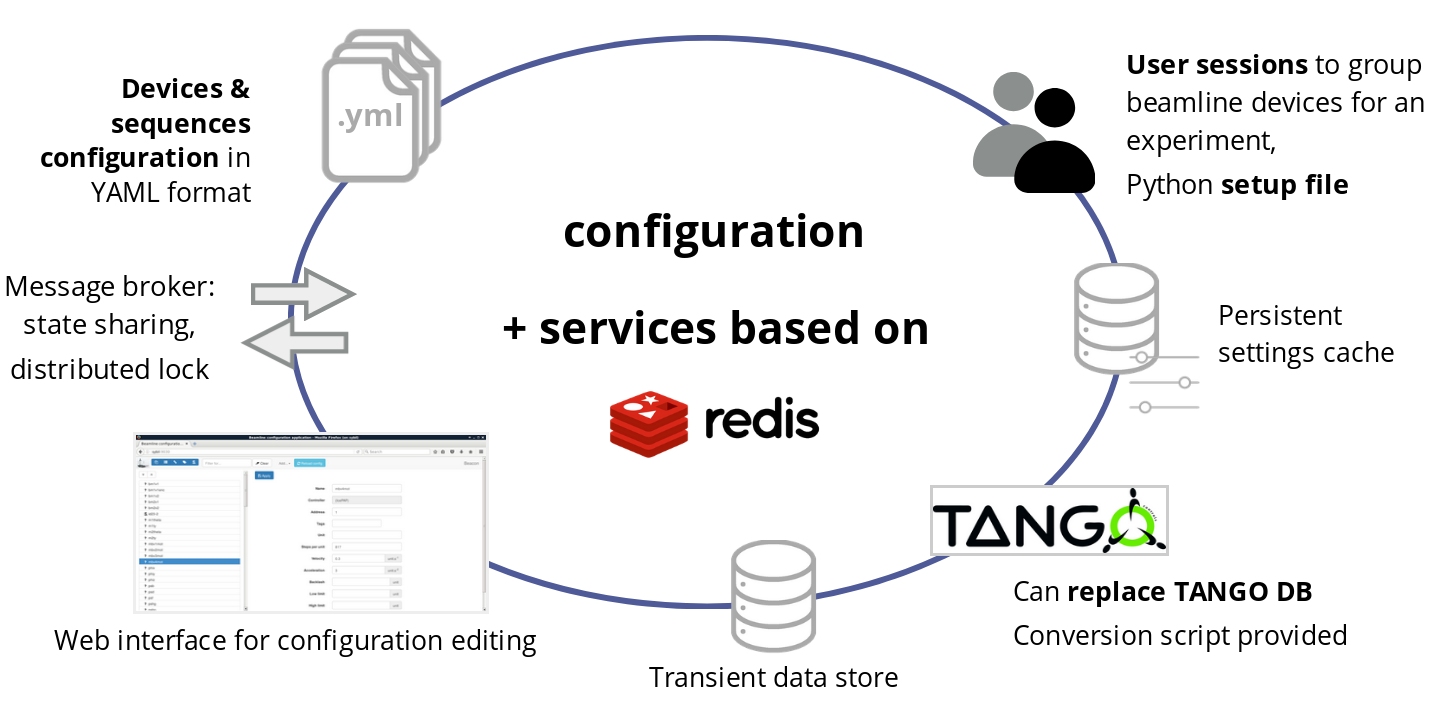
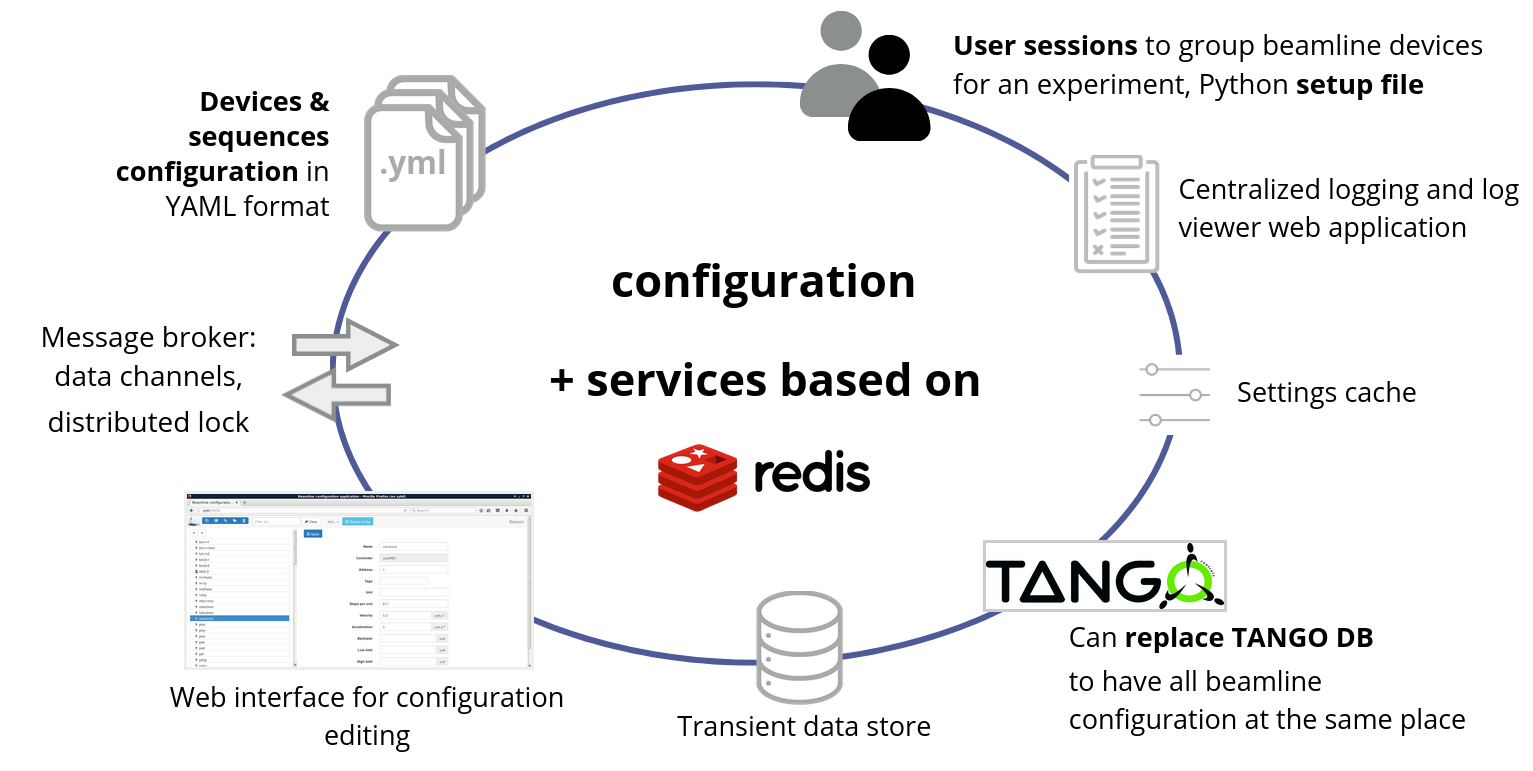
logserver/logviewer: documentation

diff --git a/doc/docs/beacon_install.md b/doc/docs/beacon_install.md
@@ -17,6 +17,8 @@ daemons started by the system:
 * The configuration files directory is set to `/users/blissadm/local/beamline_configuration`
 * The configuration web application is available at `http://localhost:9030`
 * The Beacon TANGO database service is disabled
+* The LogServer service is disabled by default
+* The LogViewer application is normally available at `http://localhost:9080` (disable by default)
 
 !!! note
     At ESRF there is at least one Beacon server per beamline.
@@ -37,7 +39,7 @@ The Beacon port number can be set manually (otherwise, by default, Beacon will j
     But it is safer to specify where to connect manually, using the `BEACON_HOST`
     environment variable to point to `<machine>:<port>` (example: `bibhelm:25000`).
 
-The web configuration UI can be enabled, by specifying the web application port number using `--webapp-port`:
+The web configuration UI can be enabled, by specifying the web application port number using **--webapp-port**:
 
     beacon-server --db-path=~/local/beamline_configuration --port=25000 --webapp-port=9030
 
@@ -47,16 +49,33 @@ you want the TANGO database server to serve:
 
     beacon-server --db-path=~/local/beamline_configuration --port=25000 --webapp-port=9030 --tango-port=20000
 
-## Command line options
+## Log Server and Log Viewer ##
 
-    * `--db-path` to specify the root path of the configuration files.
-    * `--port` to set a tcp port on beacon server default is dynamic.
-    * `--redis-port` to set a port for redis, default is 6379.
-    * `--redis_socket` uds redis connection, default is */tmp/redis.sock*
-    * `--tango-port` if defined start the tango database ds on a defined port.
-    * `--tango-debug-level` default is 0 WARNING == 1, INFO == 2, DEBUG == 2
-    * `--webapp-port` if defined start the web application on the specified port
-    * `--log-level` change the logging level of all Beacon services
-      default INFO can be switch between DEBUG, INFO, WARN, ERROR
-    * `--add-filter` add an address filter for the discovery protocol.
+A Log Server service is given with the purpose of receiving log messages from multiple clients and writing them to rotating files.
+
+Beacon will create one log file per session and will rotate on a given size (default 10MB).
+
+Also a Log Viewer Web Application is provided for reading log files.
+
+Log Server and Viewer are not started as a default and you need to provide some command line options to use them, you can't start the Viewer if the Log Server is not started (as it does not make sense); following the minimum configuration.
+
+    beacon-server --db-path=~/local/beamline_configuration --port=25000 --webapp-port=9030 --tango-port=20000 --log-server-port=9020 --log-viewer-port=9080
+
+Additional options can be set to change the output log folder (that normally is on `/var/log/bliss`) and the size of files (default 10MB).
+
+## Command line options  ##
+
+  - `--db-path` to specify the root path of the configuration files.
+  - `--port` to set a tcp port on beacon server default is dynamic.
+  - `--redis-port` to set a port for redis, default is 6379.
+  - `--redis_socket` uds redis connection, default is */tmp/redis.sock*
+  - `--tango-port` if defined start the tango database ds on a defined port.
+  - `--tango-debug-level` default is 0 WARNING == 1, INFO == 2, DEBUG == 2
+  - `--webapp-port` if defined start the web application on the specified port
+  - `--log-server-port` if defined starts a socket listener on specified port and will write create/append log files to the given folder.
+  - `--log-output-folder` is where log files are written, normally on `/var/log/bliss`, pay attention to create the folder before and give right permissions.
+  - `--log-viewer-port` if defined starts the Web Applications `tailon` on specified port. 
+  - `--log-level` change the logging level of all Beacon services
+  - default INFO can be switch between DEBUG, INFO, WARN, ERROR
+  - `--add-filter` add an address filter for the discovery protocol.
       i.e 172.24.8.0/24 only reply if client is on this network.

diff --git a/doc/docs/beacon_logservice.md b/doc/docs/beacon_logservice.md
@@ -1,0 +1,29 @@
+# Beacon Log Service
+
+*Beacon* provides some log services that, if configured allows to:
+
+- automatically save log messages to files
+- gather messages from different clients working on the same session
+- display log messages with a web application
+
+To run these services you must run beacon with specific command line arguments, ([see beacon install](beacon_install.md#log-server-and-log-viewer)).
+
+## Log Viewer application ##
+
+If the Log Viewer option is activated you can use a Browser and connect to the beacon host computer (normally on port 9080) with `http://beacon_host:9080`.
+
+Every session has a different file. When the file reaches a size limit a new empty one is created and the current one is renamed in the same folder. Only ten backups are keep and if needed the older one is overwritten.
+
+
+![Screenshot](img/log_viewer.jpg)
+
+
+## Log Server ##
+
+If the Log Server option is activated Beacon listens for log messages that are sent automatically by Bliss Shell clients. All messages are saved to files, one different file per session; the default folder is `/var/log/bliss`.
+
+The Log Server can be used without launching the Log Viewer as logs can be read using any other text editor software.
+
+Under the hood there is a socket on Beacon Host normally listening on port 9030.
+Every Bliss Shell on startup will interrogate Beacon to know if Log Server is active
+and if so will forward log messages to it.  

diff --git a/doc/docs/shell_cmdline.md b/doc/docs/shell_cmdline.md
@@ -21,14 +21,15 @@ Usage: bliss [-l | --log-level=<log_level>] [-s <name> | --session=<name>]
 
 Options:
   -l, --log-level=<log_level>   Log level [default: WARN]
-                                {CRITICAL; ERROR; INFO; DEBUG; NOTSET}
+                                (CRITICAL ERROR INFO DEBUG NOTSET)
   -s, --session=<session_name>  Start with the specified session
   -v, --version                 Show version and exit
   -c, --create=<session_name>   Create a new session with the given name
   -d, --delete=<session_name>   Delete the given session
   -h, --help                    Show help screen and exit
   --no-tmux                     Deactivate Tmux usage
-  --debug                       Allow debugging: keep tmux alive after shell exit
+  --debug                       Allow debugging with full exceptions and keeping
+                                tmux alive after Bliss shell exits
   --show-sessions               Display sessions and tree of sub-sessions
   --show-sessions-only          Display sessions names only
 ```
